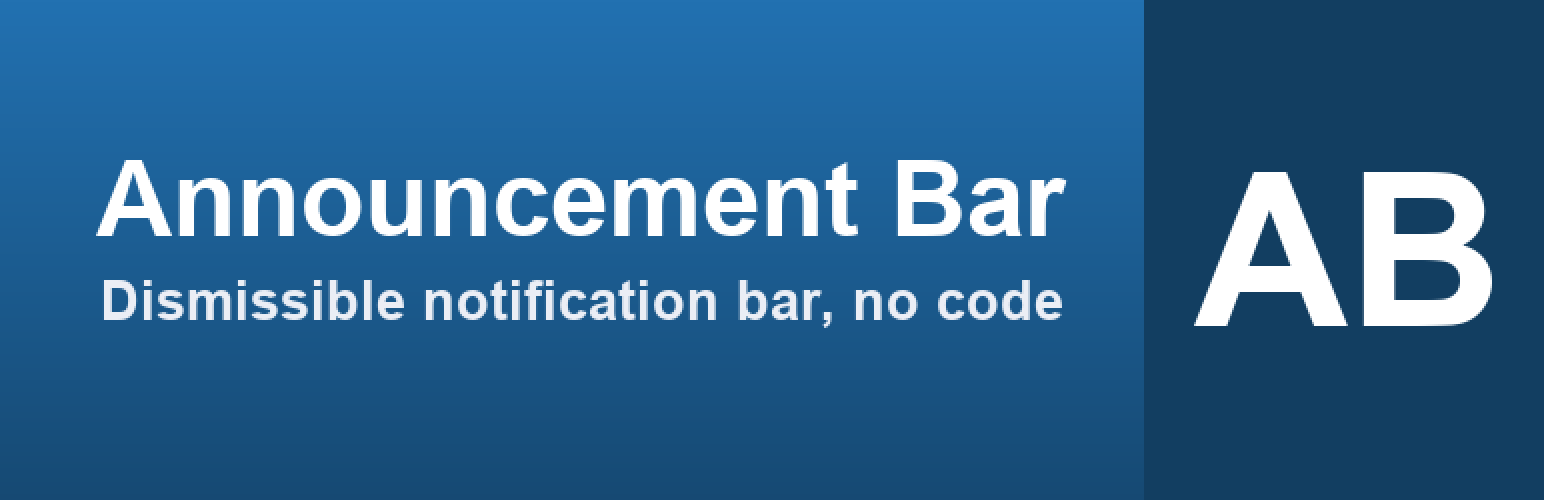
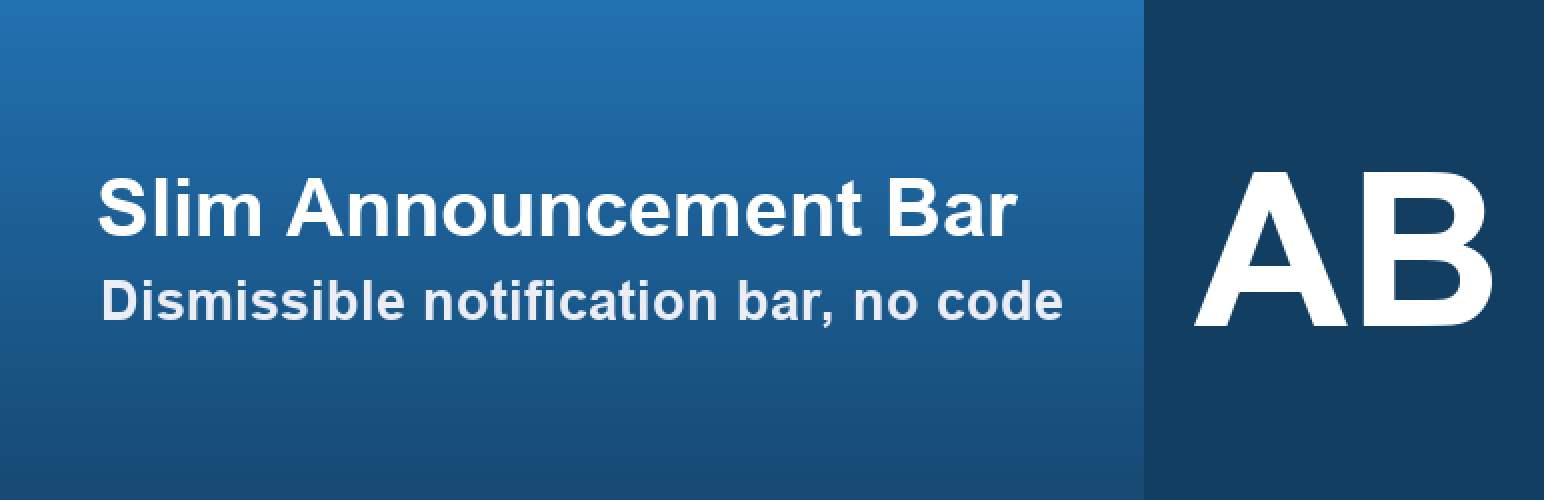
Rename to Slim Announcement Bar (slug collision on wordpress.org)
'announcement-bar' slug is taken; rename slug + text domain + display name.

Changed region(s): [[0.0622, 0.3, 0.715, 0.48]]

diff --git a/uninstall.php b/uninstall.php
@@ -7,4 +7,4 @@
 
 defined( 'WP_UNINSTALL_PLUGIN' ) || exit;
 
-delete_option( 'announcement-bar_options' );
+delete_option( 'slim-announcement-bar_options' );

diff --git a/README.md b/README.md
@@ -1,4 +1,4 @@
-# Announcement Bar
+# Slim Announcement Bar
 
 A dismissible sticky announcement / notification bar for the top of your site —
 sales, notices, links — with no theme editing. Part of the
@@ -12,7 +12,7 @@ CTA button, custom background/text colours, and a dismiss button remembered for
 
 ## Settings
 
-**Settings → Announcement Bar** — enable, message, button text/URL, colours,
+**Settings → Slim Announcement Bar** — enable, message, button text/URL, colours,
 dismissible, sticky (Pro).
 
 ## Free vs Pro